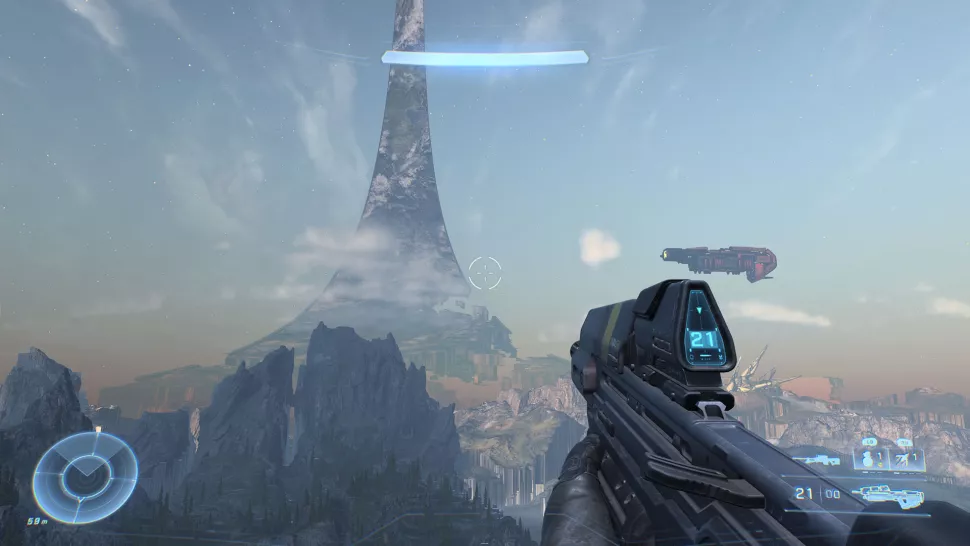
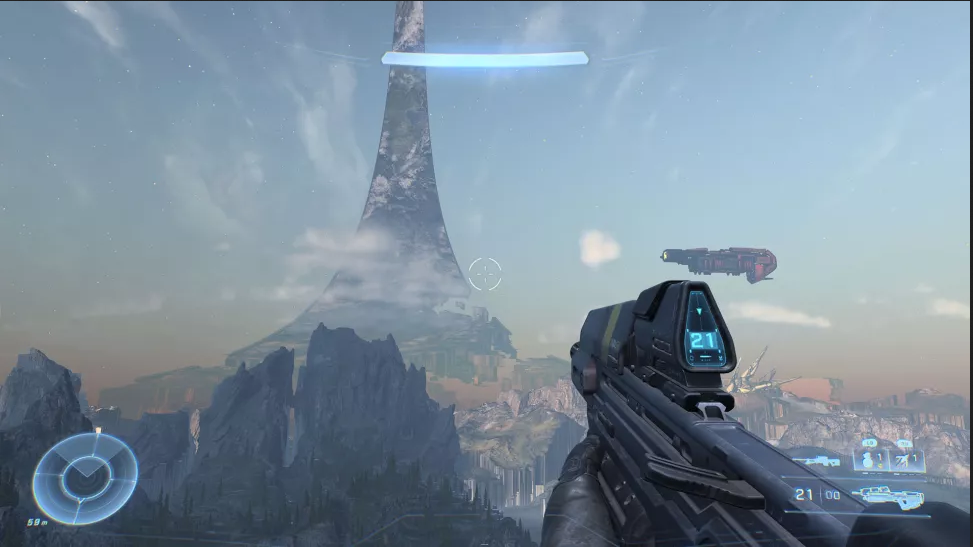
Started Sound Design
Finished Sound Design
- Finished Apocalypse
- 60% finished City

diff --git a/sections/implementation.tex b/sections/implementation.tex
@@ -88,7 +88,7 @@ oder eine Ansammlung an verschiedenen Planeten ist.
 
 \begin{figure}
     \centering
-    \includegraphics{pics/knuthi}
+    \includegraphics[scale=0.4]{pics/3d_welt_halo_ring}
     \caption{3D Welt - Halo}
     \label{fig:3d_environment_halo}
 \end{figure}
@@ -98,7 +98,7 @@ oder eine Ansammlung an verschiedenen Planeten ist.
 
 \begin{figure}
     \centering
-    \includegraphics{pics/knuthi}
+    \includegraphics[scale=0.3]{pics/3d_welt_destiny_planets}
     \caption{3D Welt - Destiny 2}
     \label{fig:3d_environment_destiny2}
 \end{figure}
@@ -112,7 +112,7 @@ Ein Beispiel hierfür w\"are ein das Bild von Cayde-6 (ein Charakter aus Destiny
 ~\cite{GameDeveloper_2022}
 
 \begin {figure}
-    \includegraphics[scale=0.18]{pics/3d_welt_destiny2-environmental-storytelling}
+    \includegraphics[scale=0.3]{pics/3d_welt_destiny2-environmental-storytelling}
     \caption{Environmental Storytelling - Destiny 2 Cayde}
     \label{fig:3d_environmental_storytelling_destiny2}
 \end {figure}
@@ -127,7 +127,8 @@ Modellierungsphase eine Bestimmte Grid-Gr\"osse festgelegt, an dem die Grundfl\"
 angepasst wurden.
 
 \begin {figure}
-    \includegraphics[scale=0.18]{pics/unity-grid-snapping}
+    \centering
+    \includegraphics[scale=0.6]{pics/unity-grid-snapping}
     \caption{Unity - Grid Snapping System}
     \label{fig:grid-system-unity}
 \end {figure}
@@ -140,7 +141,8 @@ Nun werden alle Achsen immer die gleiche Gr\"osse haben.
 ~\cite{Unity_GridSnapping_2022}
 
 \begin {figure}
-    \includegraphics[scale=0.18]{pics/unity-grid-snapping-size}
+    \centering
+    \includegraphics{pics/unity-grid-snapping-size}
     \caption{Unity - Grid Snapping Size}
     \label{fig:grid-size-unity}
 \end {figure}
@@ -153,6 +155,7 @@ F\"ur BeamVR wurden daher insgesamt \"uber 34 Geb\"aude Modelle erstellt um eine
 ~\ref{fig:beamvr_building-variety}
 
 \begin {figure}
+    \centering
     \includegraphics[scale=0.18]{pics/beamvr_building-variety}
     \caption{Beam VR - Building Overview}
     \label{fig:beamvr_building-variety}
@@ -180,12 +183,24 @@ Daher wurden alle umliegenden Bauwerke mindestens 3 Meter h\"oher gemacht, als d
 ~\ref{fig:beamvr_building-heights}
 
 \begin {figure}
-    \includegraphics[scale=0.18]{pics/beamvr_city_day_heights}
+    \centering
+    \includegraphics[scale=0.5]{pics/beamvr_city_day_heights}
     \caption{Beam VR - Building Heights}
     \label{fig:beamvr_building-heights}
 \end {figure}
 
 \subsection{Nacht Stadt}\label{subsec:night-city}
+In der nacht Version der Stadt wurde die Skybox angepasst, diese zeigt nun einen Sternenhimmel.
+Zus\"atzlich wurde die Belichtung der Scene auf ein bl\"auliches Licht eingestellt und die Laternen in den Straßen
+haben optional noch eigene Lichtquellen.
+~\ref{fig:beamvr_night_map_lighting}
+
+\begin {figure}
+    \centering
+    \includegraphics[scale=0.3]{pics/beamvr_night_overview}
+    \caption{Beam VR - Night Map Lighting}
+    \label{fig:beamvr_night_map_lighting}
+\end {figure}
 
 \subsection{Apokalypsen Stadt}\label{subsec:apocalypse-city}
 F\"ur diese Umgebung wurden alle Geb\"aude nochmal \"uberarbeitet.
@@ -198,13 +213,15 @@ Die Planzen und B\"aume wurden durch ausgetrocknete B\"usche ausgetauscht, damit
 ~\ref{fig:beamvr_apocalypse_map}
 
 \begin {figure}
-    \includegraphics[scale=0.18]{pics/beamvr_damaged_texture}
+    \centering
+    \includegraphics{pics/beamvr_damaged_texture}
     \caption{Beam VR - Damaged Texture}
     \label{fig:beamvr_damaged_texture}
 \end {figure}
 
 \begin {figure}
-    \includegraphics[scale=0.18]{pics/beamvr_apocalypse-overview}
+    \centering
+    \includegraphics[scale=0.3]{pics/beamvr_apocalypse-overview}
     \caption{Beam VR - Apocalypse Map}
     \label{fig:beamvr_apocalypse_map}
 \end {figure}
@@ -212,10 +229,33 @@ Die Planzen und B\"aume wurden durch ausgetrocknete B\"usche ausgetauscht, damit
 
 
 \section{Sound Design}\label{sec:sound}
+Sound Design ist einer der wichtigsten Punkte, den man bei der Spieleentwicklung beachten muss.
+In der virtuellen Umgebung der verwendeten Game Engine existieren anfangs keine Geräusche, diese m\"ussen von den Entwicklern selber erstellt und eingef\"ugt werden.
+
+Es gibt viele verschiedene Arten Sound Design zu benutzen, wie zum Beispiel die Ger\"ausche die der Anwender selbst in der virtuellen Welt verursacht.
+Wenn sich der Spieler bewegt, sollten Fußstapfen zu h\"oren sein.
+Diese klingen je nach Bodentyp unterschiedlich.
+Besteht der Boden aus Holz, wird man ein h\"olzernes klopfen und knarren h\"oren, ist der Boden jedoch mit Gras bedeckt wird ein rascheln abgespielt.
+Zus\"atzlich wird der gesteuerte Charakter ersch\"opft klingen wenn gelaufen wurde oder gerade ein Sprung ausgef\"uhrt wird.
+
+Bei Umgebungen ist es wichtig, dass die Welt nicht leer klingt, sondern mit situationsbedingten Hintergrundger\"auschen voller Leben erscheint.
+Es gibt jedoch auch Situationen wo gezielt wenig Umgebungsger\"ausche benutzt werden um zum Beispiel eine W\"uste oder eine verlassene Stadt noch einsamer und trostloser darzustellen.
+
+Um die Stimmung noch genauer steuern zu k\"onnen kann Musik benutzt werden.
+Wenn der Spieler auf einem Pferd durch eine Weide reitet, kann eine dramatische und inspirierende Musik benutzt werden, um den Moment noch besser und cinematischer wirken zu lassen.
 
 \subsection{Apocalypse}\label{subsec:apocalypse-background-sound}
+Die Musik in der Apocalypse Map ist stark an das Horror Genre angelegt.
+Die Melodie ist jedoch nicht wirklich existent, stattdessen existiert ein durchgehendes pfeifendes Ger\"ausch, welches unterbewusst das Spannungslevel erh\"oht.
+Der Spieler f\"uhlt sich etwas unbehaglich und alleine.
+Dadurch wirkt die Stadt, neben den br\"ockelnden H\"ausern, zus\"atzlich noch mehr verlassen.
+
+Da die Sicht in dieser Map stark durch einen gelblichen Nebel, der wie ein Sandsturm wirkt, eingeschr\"ankt ist, kann man im Hintergrund den Wind pfeifen h\"oren.
 
 \subsection{City}\label{subsec:day-night-background-sound}
+Die Hintergrundger\"ausche der Tag und Nacht Version der Stadt sind sehr \"ahnlich.
+Der Spieler kann Motorr\"ader und Autos auf den Straßen vorbeifahren h\"oren.
+Hinundwieder kann man Menschen bei kurzen Gespr\"achen miteinander zuh\"oren und ein Kind husted im Hintergrund.
 
 \subsection{Event}\label{subsec:building-collapse-sound}
 
